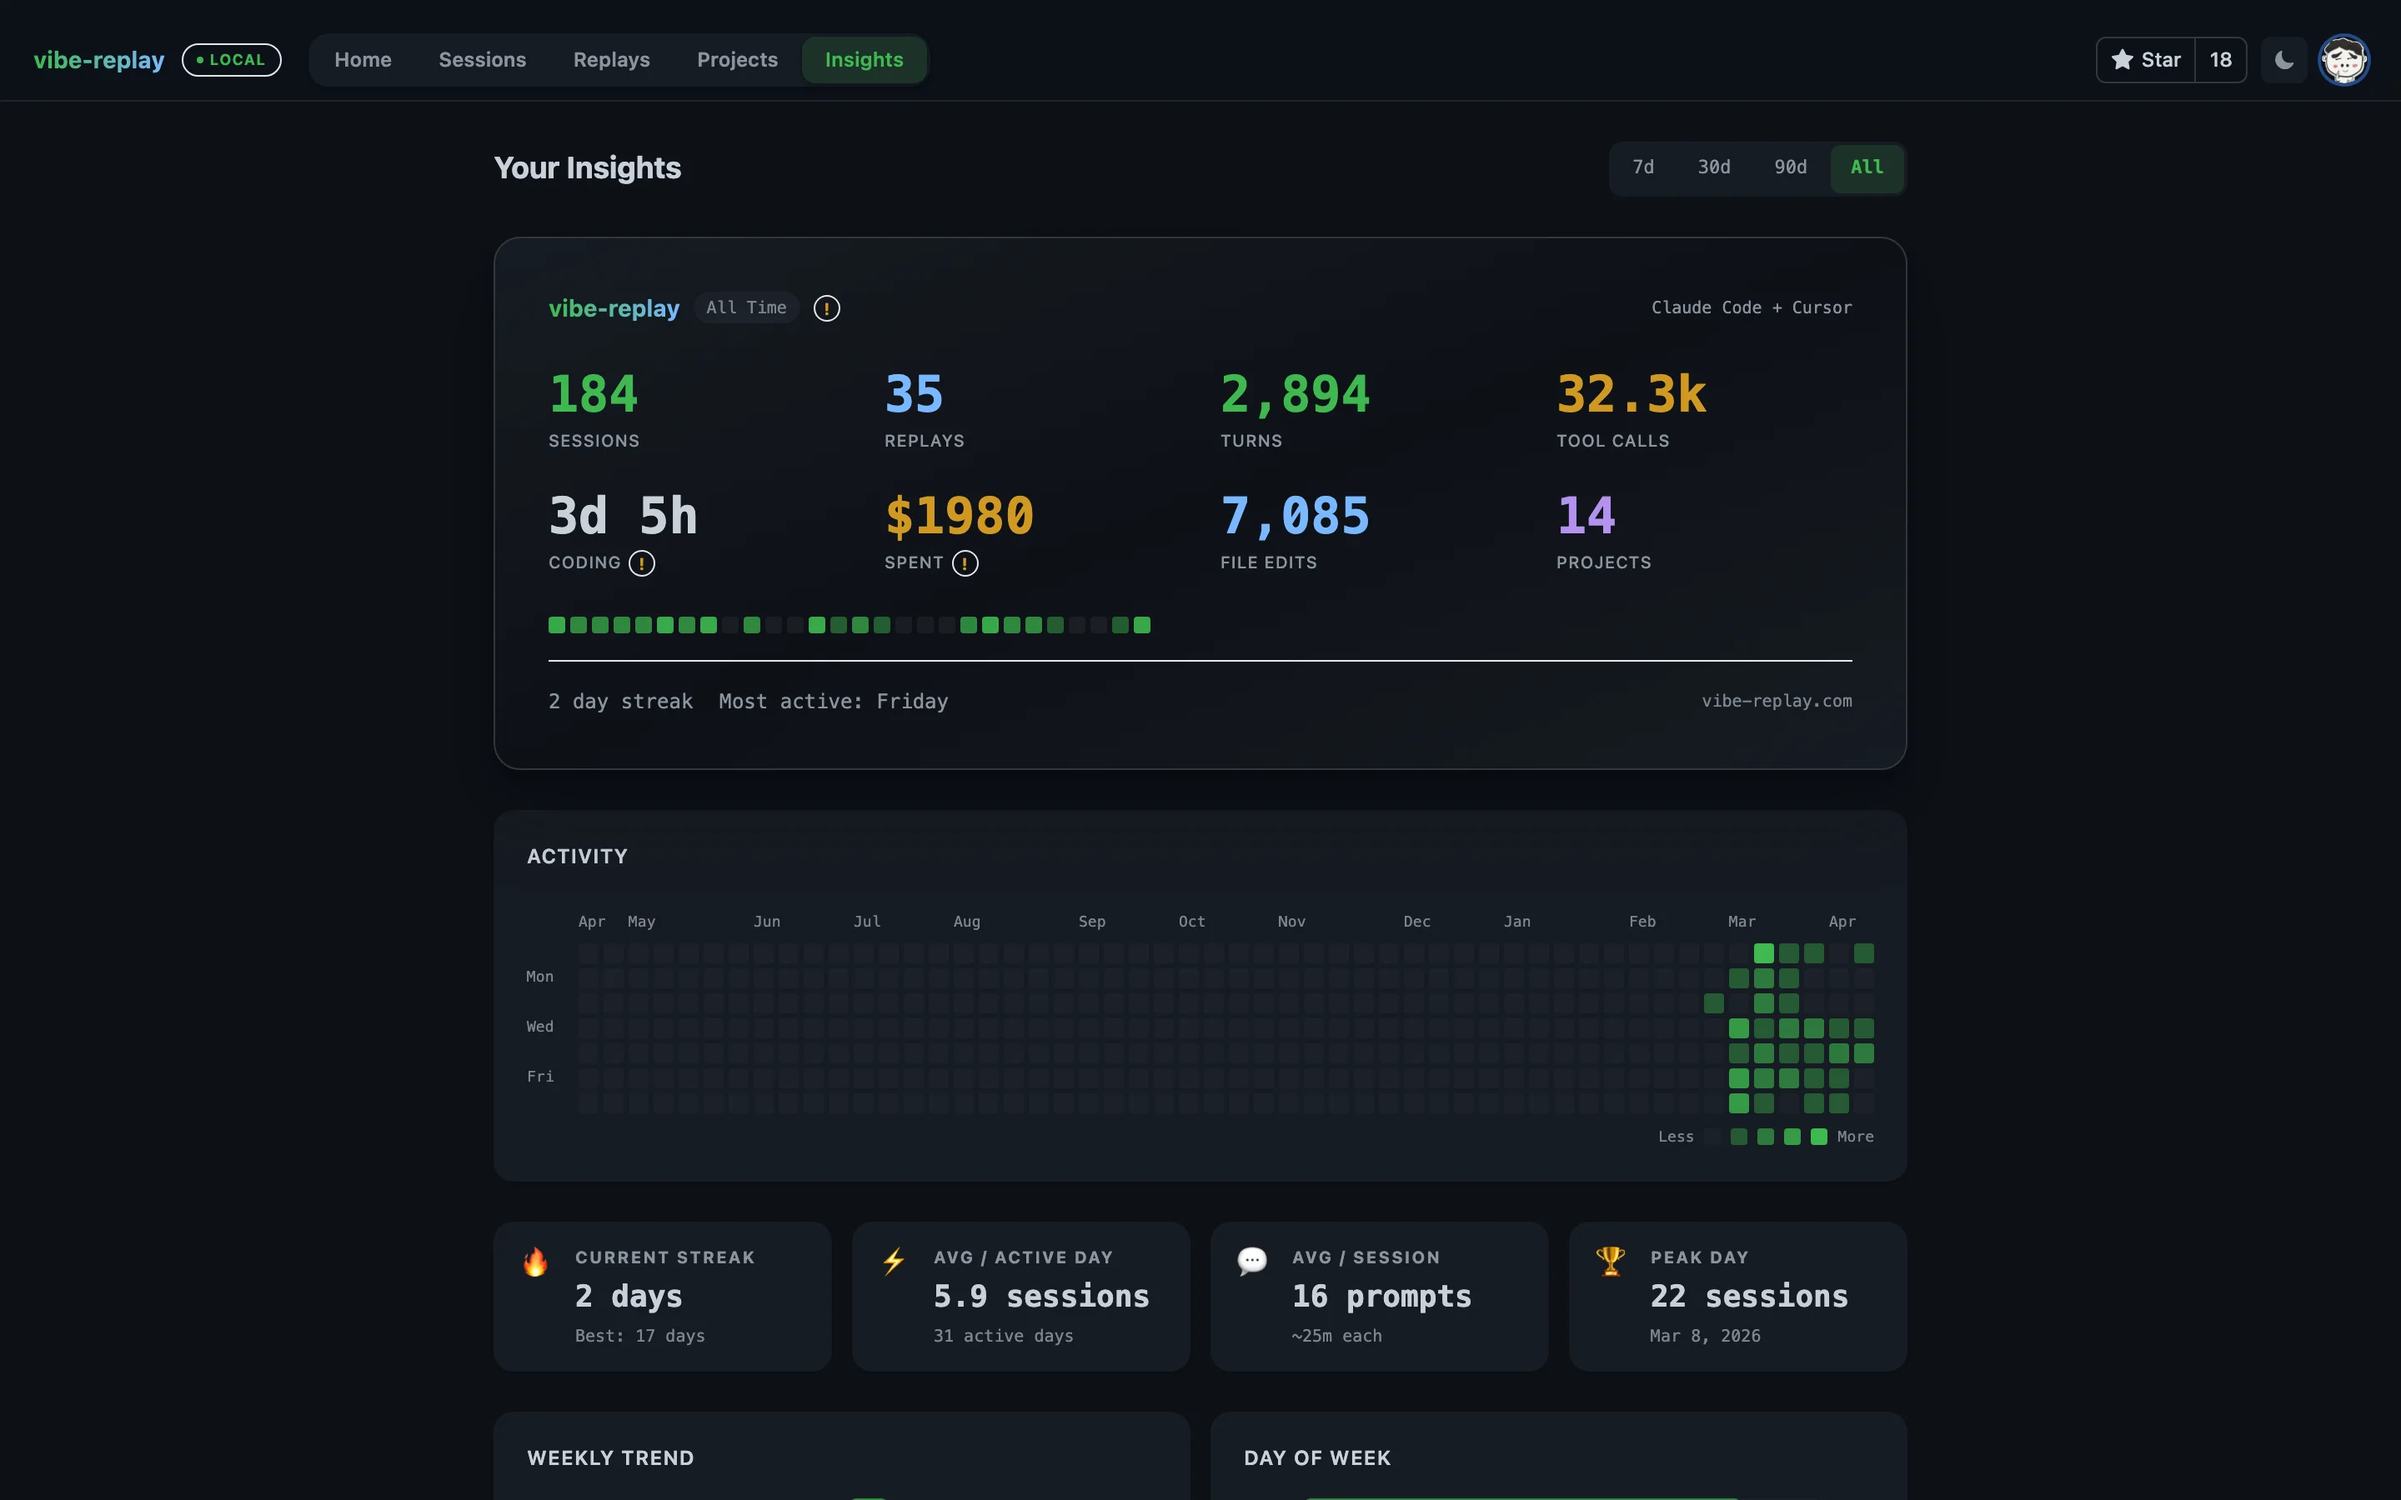
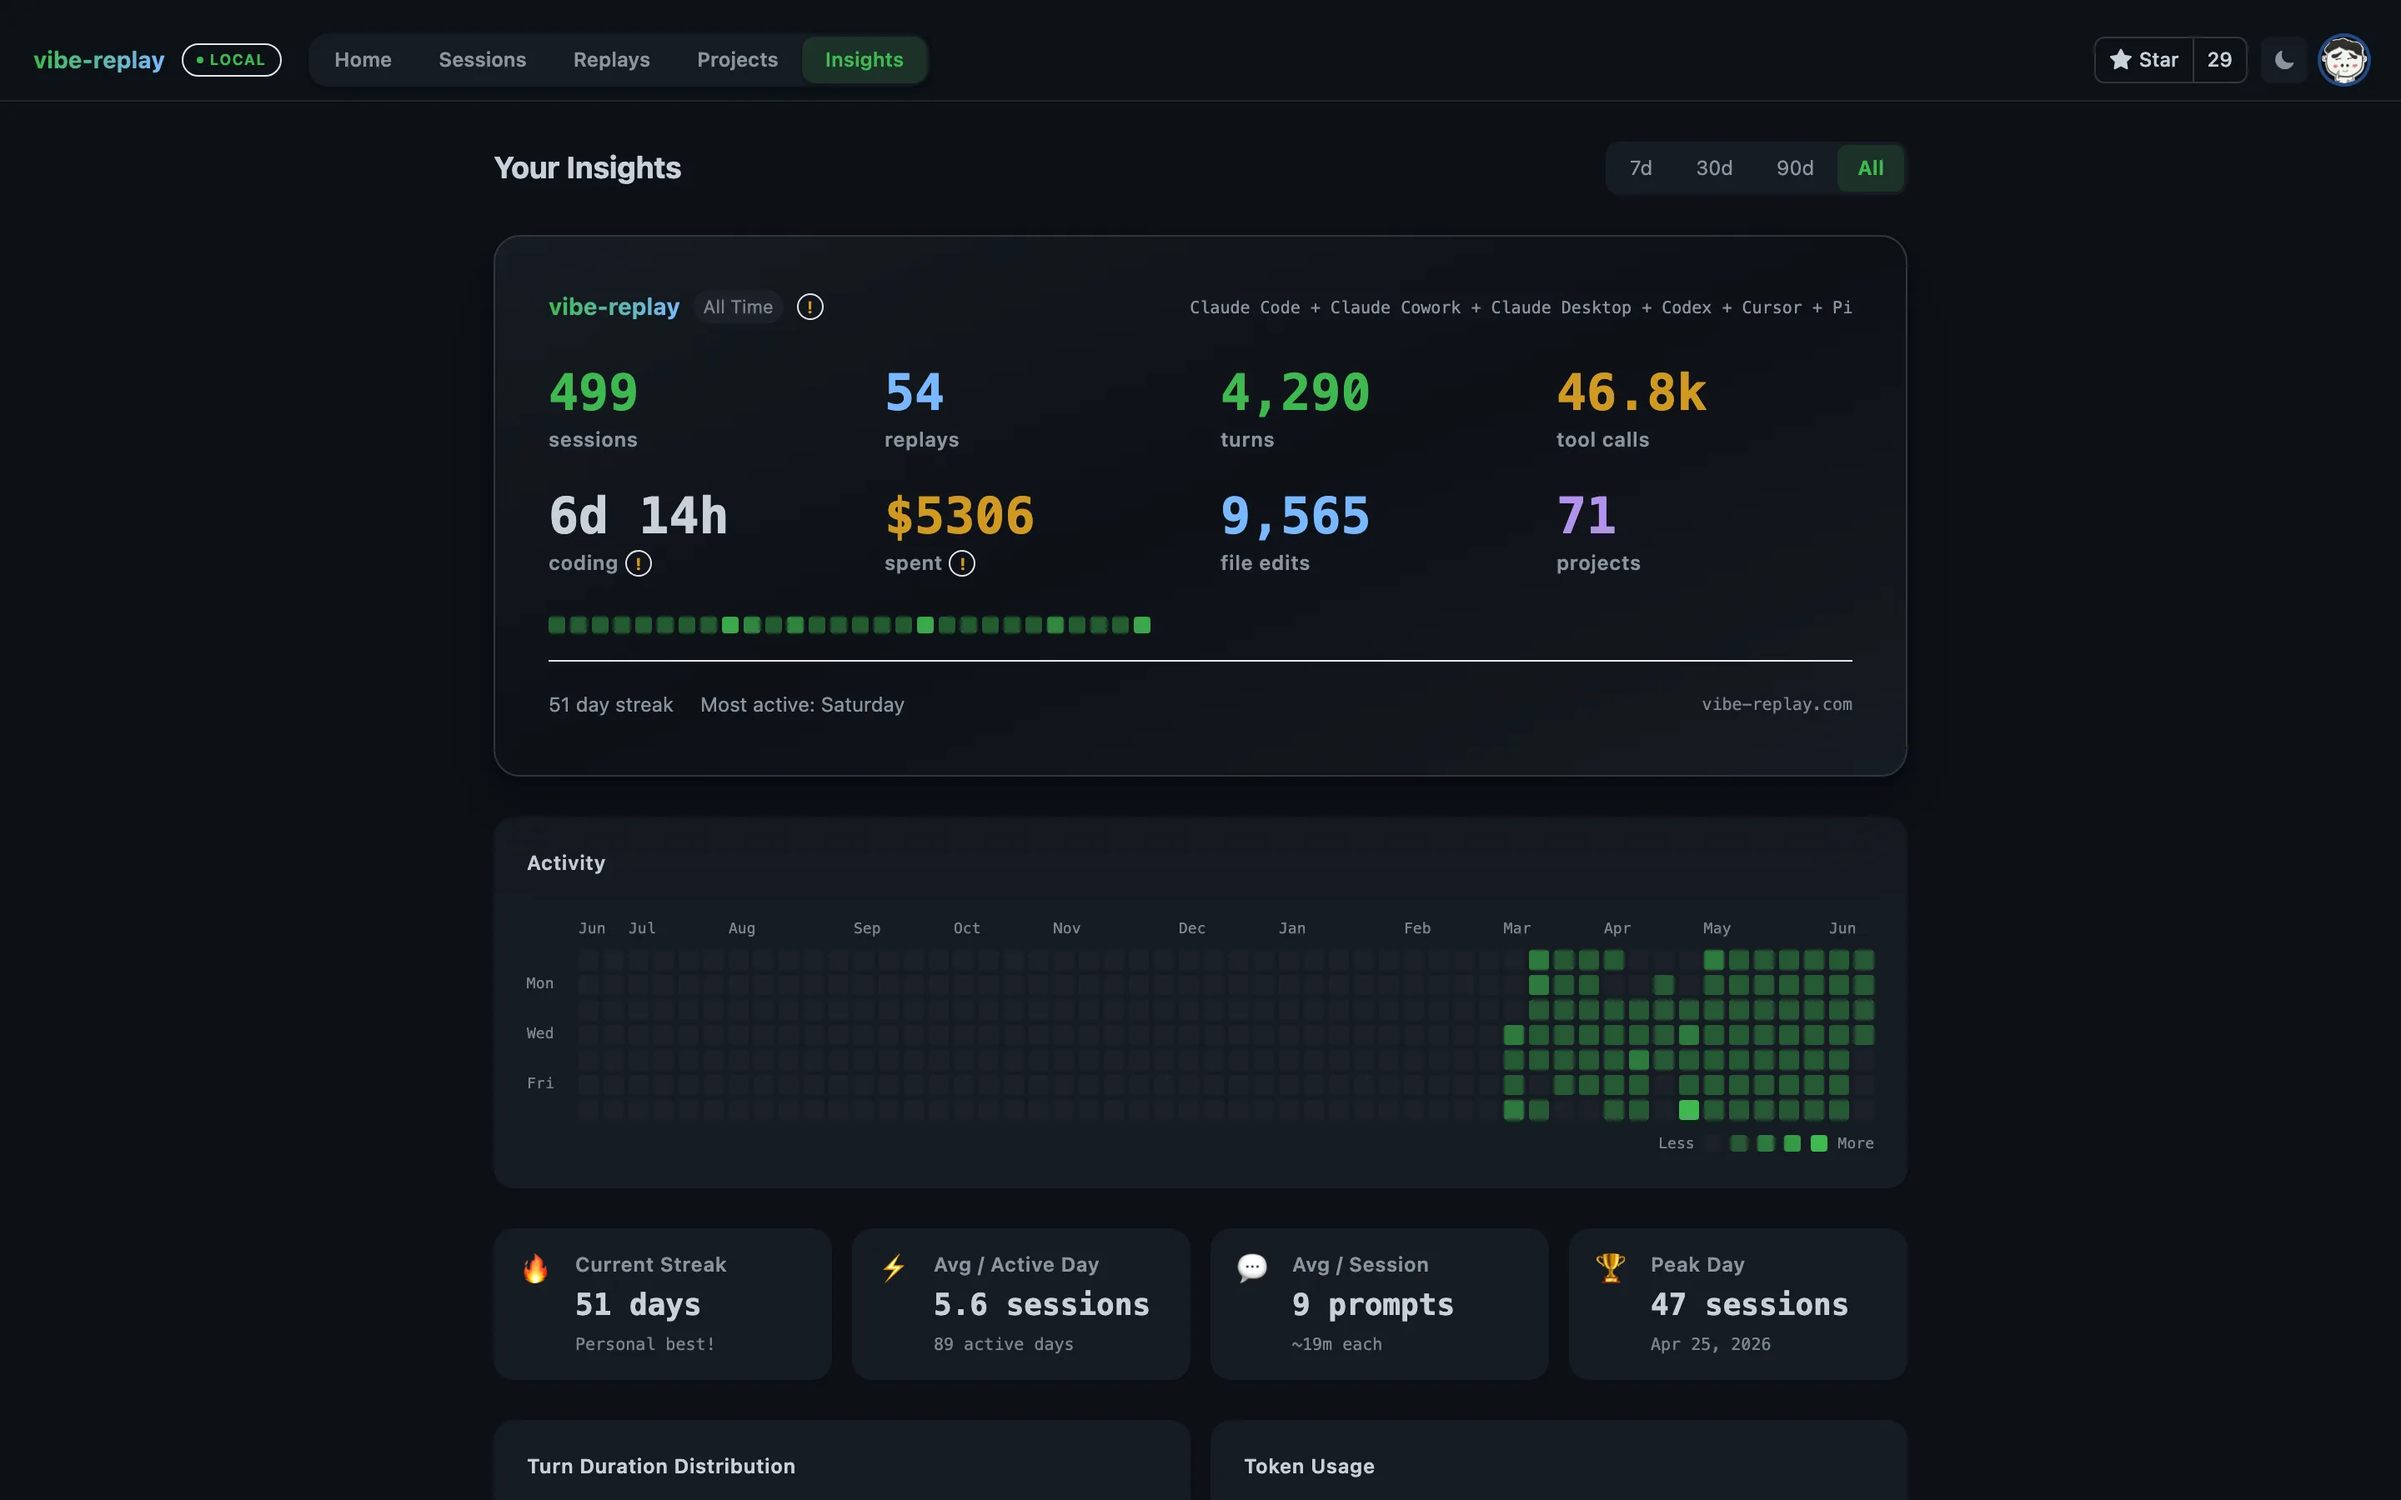
docs: refresh website + README screenshots and copy
Regenerate all product screenshots from the current build to reflect the
redesigned dashboard (Today snapshot + Activity Insights cards, redesigned
session cards), the multi-provider personal-insights view, and the updated
replay viewer (sticky prompt context, relaxed typography).

- website: retina webp for dashboard, replay (compact/light), session
  insights, and personal insights
- README: regenerate docs/screenshots PNGs; re-record product-demo.gif via
  Playwright walkthrough (home -> insights -> replay), 6.7MB -> 629KB
- copy: broaden provider mentions from "Claude Code + Cursor" to
  "Claude Code, Cursor, Codex, and Pi" across meta descriptions, Features,
  HowItWorks, CliGuide, and explore FAQ; mention dashboard search and
  git-repo filtering

diff --git a/README.md b/README.md
@@ -31,7 +31,7 @@ npx vibe-replay
 
 ### All your sessions, one place
 
-Launch with `npx vibe-replay -d` and see every Claude Code, Cursor, Codex, and Pi session across all projects — with activity heatmaps, cost totals, and project analytics.
+Launch with `npx vibe-replay -d` and see every Claude Code, Cursor, Codex, and Pi session across all projects — with a daily activity snapshot, activity heatmaps, cost totals, and project analytics. Search sessions, filter by git repo, and generate any replay in one click.
 
 <p align="center">
   <img src="docs/screenshots/dashboard.png" alt="Local dashboard — browse sessions, activity heatmap, project analytics" width="800" />
@@ -126,6 +126,7 @@ curl -o ~/.claude/skills/replay/SKILL.md \
 - **Cross-platform** — runs on macOS, Linux, and Windows
 - **Single HTML file** — self-contained, works offline, zero external requests. Drop it in Slack, email it, open it anywhere
 - **Claude Code, Cursor, Codex, and Pi** — all providers auto-discovered, including multi-file and resumed sessions
+- **Local dashboard** — browse and search every session, filter by git repo, with activity heatmaps, per-project analytics, and a personal-insights view across all your coding
 - **Share & export** — GitHub Gist, animated SVG, GIF, markdown summary, or cloud upload. Secret redaction built in
 - **Sub-agent visualization** — see delegated tool calls and sub-agent trees rendered inline
 - **Comments** — leave notes on any scene. Comments persist in the HTML and travel with the replay
